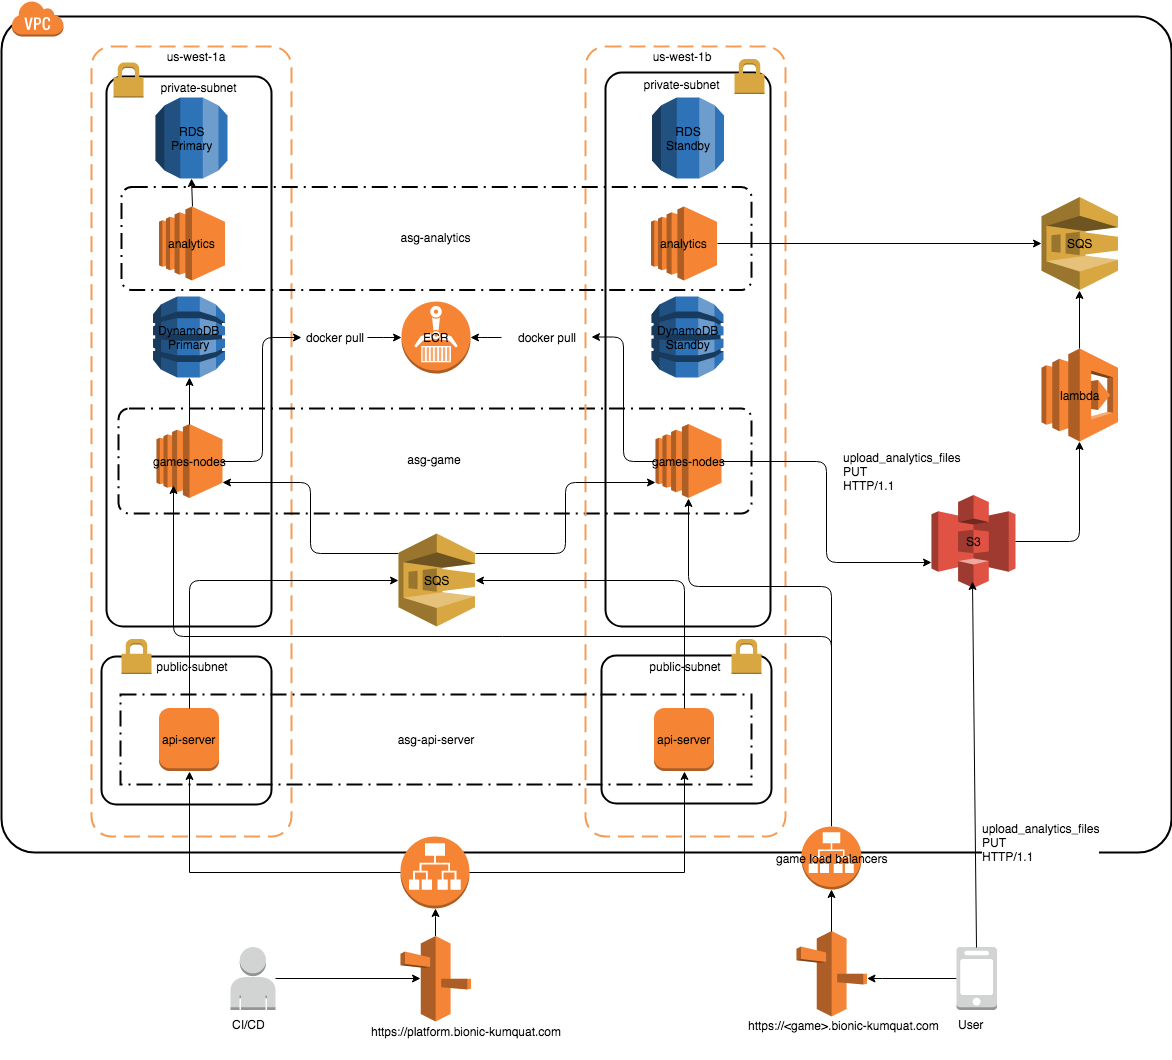
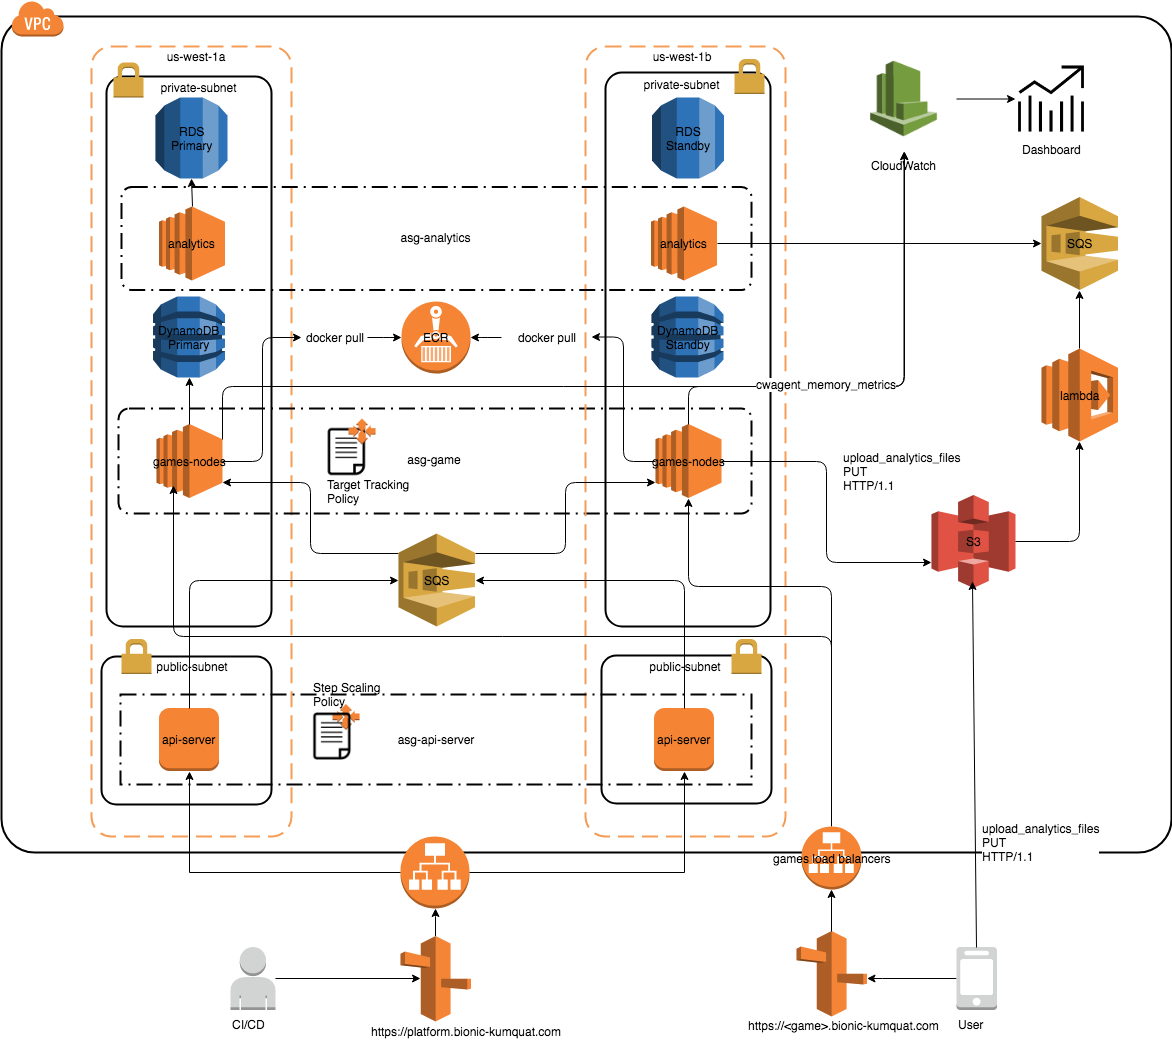
Update README and system diagram

diff --git a/README.md b/README.md
@@ -139,9 +139,20 @@ An autoscaling group is defined to manage the elasticity of the Games nodes usin
 
 Every EC2 instance has an ESB volume attached to it at the default location of `/opt/games/data`.
 
-### To-Do's
+To monitor memory utilization, CloudWatch agent is installed on every games node. The agent configuration template can be found in the `bootstrap/config/games/cloudwatch_agent.json` file.
 
-1. Custom memory metrics for games nodes
+## To-Dos
+The following is a list of items to be completed:
+
 1. Provision SQS.
-1. SQS client on API Server.
-1. Lambda to picks up files from S3 buckets.
+1. SQS client on API Server to push user's payload to SQS.
+1. SQS consumer on Games nodes to receive and process user's payload from SQS.
+1. Lambda to move new analytics files from S3 buckets to Analytics backend.
+1. Deploy Analytics backend with Hadoop and HDFS.
+1. Add cloudwatch alarms to system diagram.
+1. Define more load testing targets in Makefile.
+
+## Improvements
+The following is a list of improvements to be considered:
+
+1.  Replace API Server EC2 instances with AWS API Gateway.
